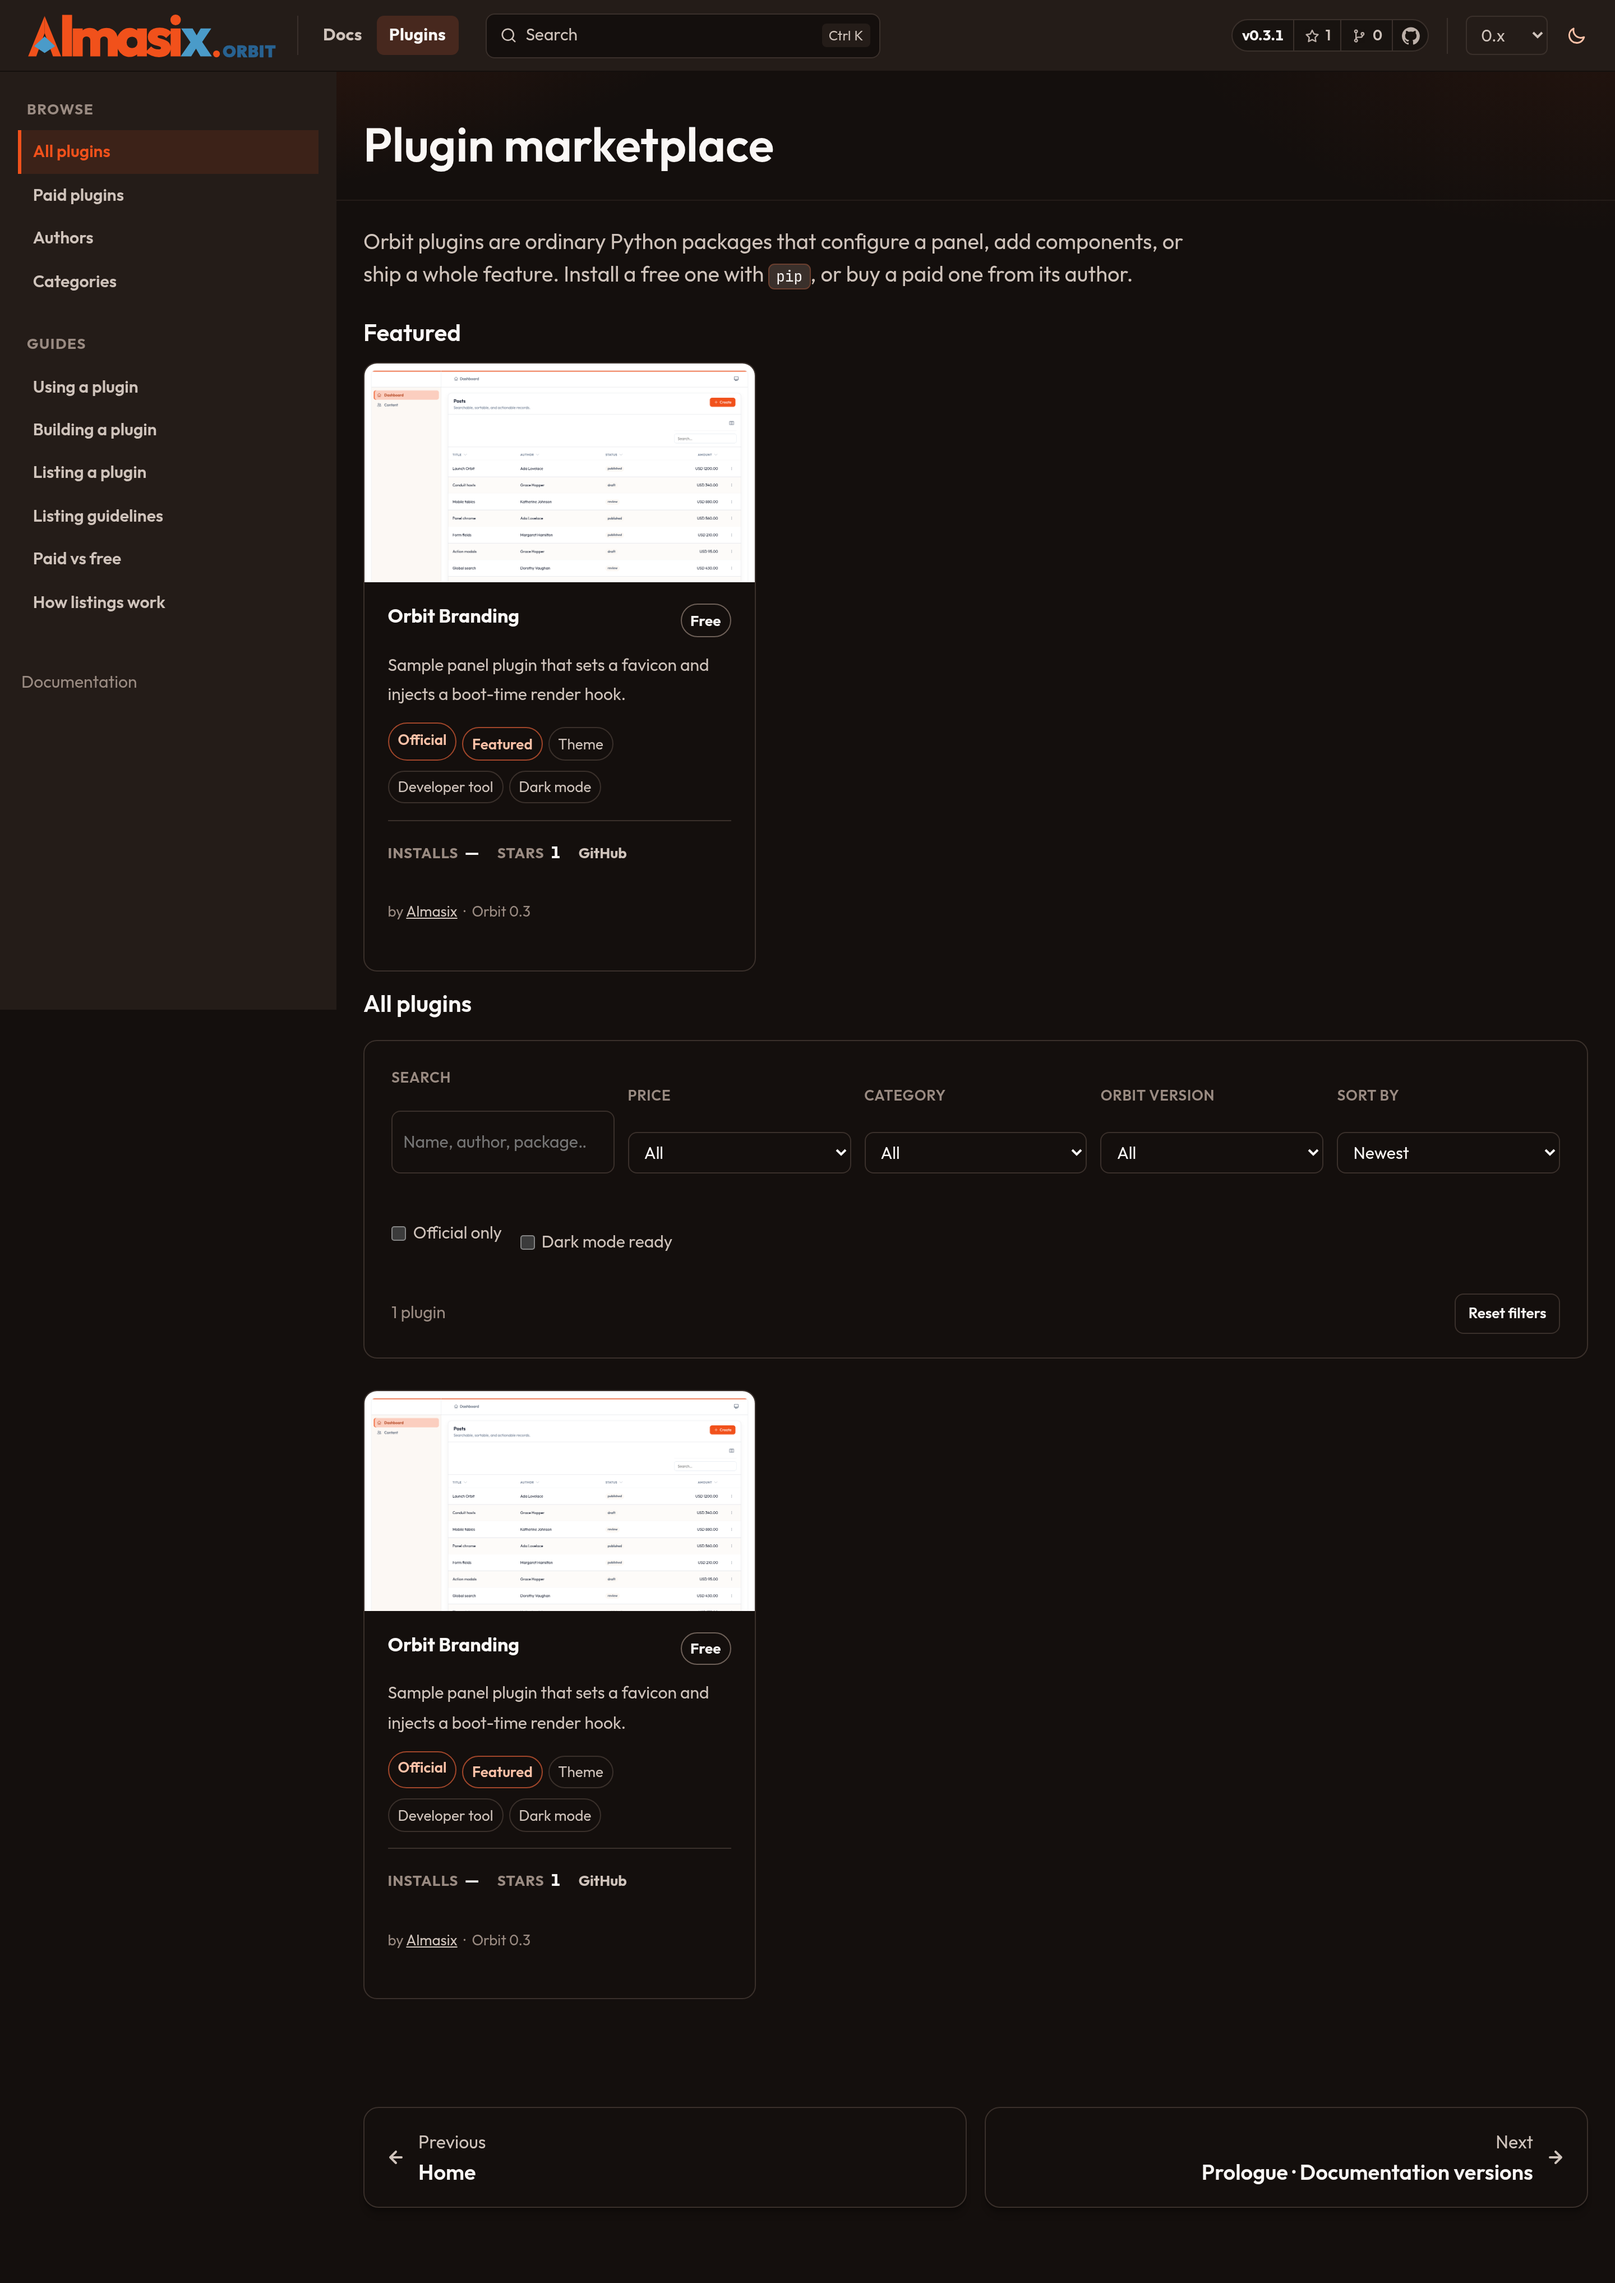
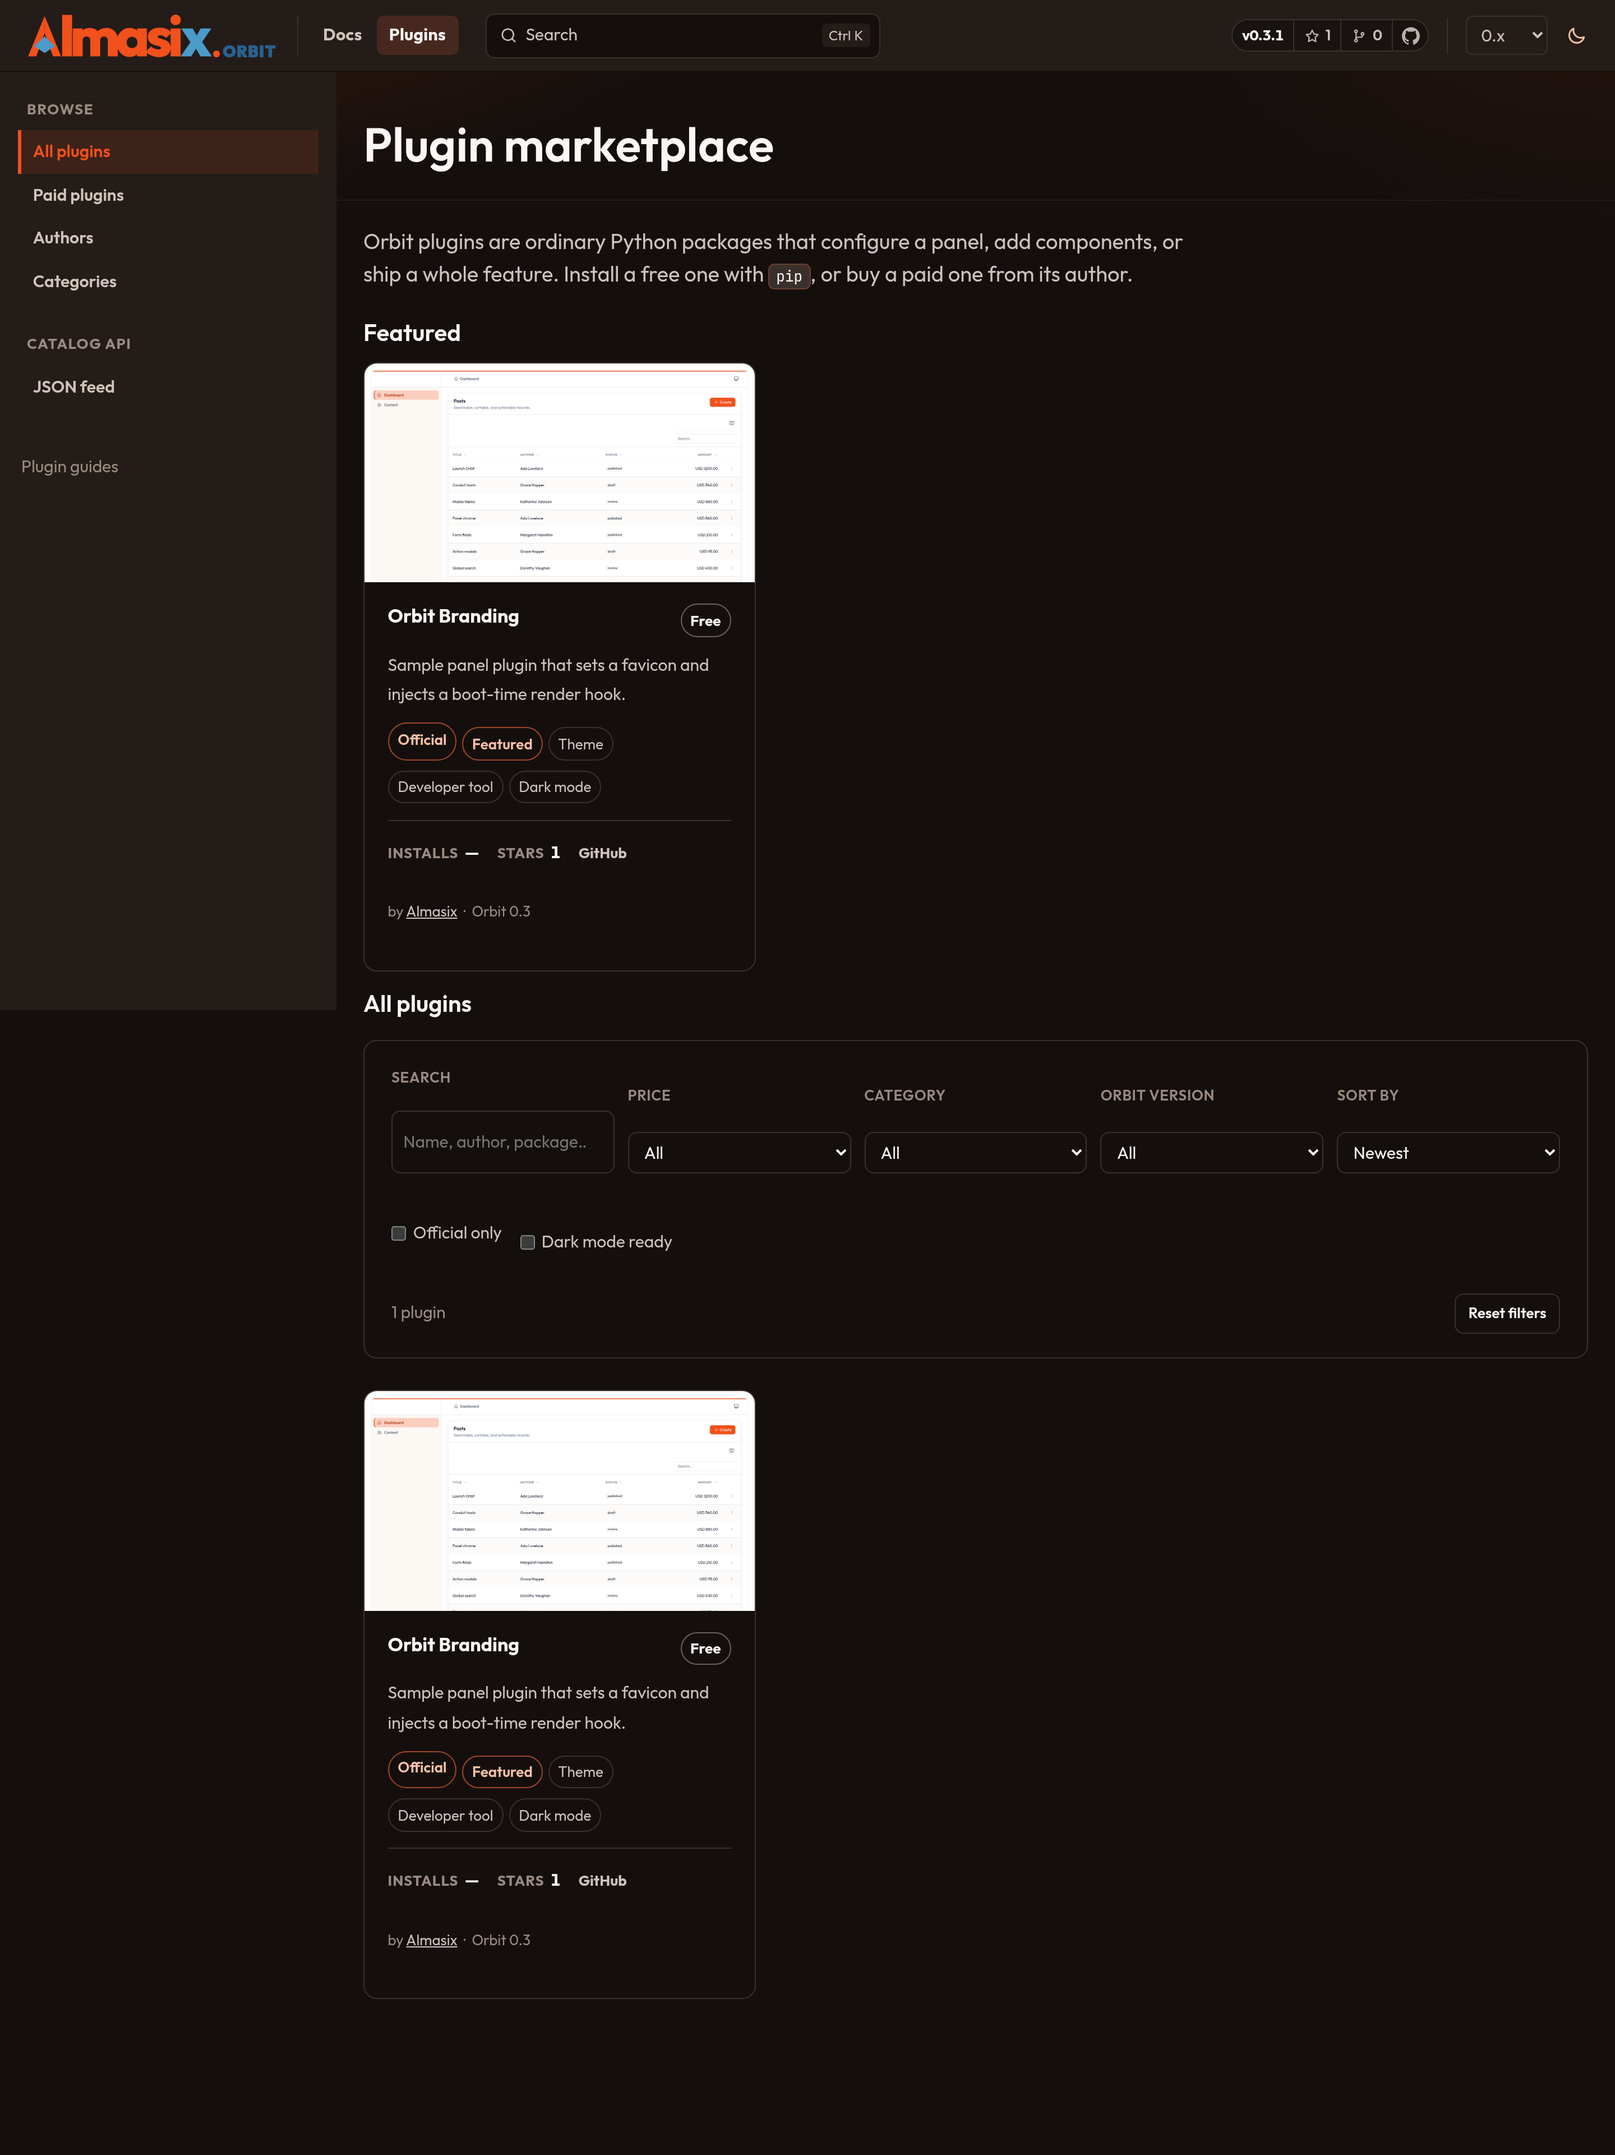
feat(docs): full-width marketplace catalog with listing-only sidebar (#80)
feat(docs): make the marketplace a full-width listing catalog

Keep overview, building, and publishing in the Docs sidebar, and give /plugins a catalog-only nav plus a JSON feed API page.

diff --git a/docs/src/styles/marketplace.css b/docs/src/styles/marketplace.css
@@ -687,3 +687,52 @@
 .content-panel:has([data-marketplace]) {
 	padding-block: 1.35rem 2.5rem;
 }
+
+.market-table-wrap {
+	overflow-x: auto;
+	margin: 0.75rem 0 1.25rem;
+	border: 1px solid var(--market-line);
+	border-radius: var(--market-radius);
+}
+
+.market-table-wrap table {
+	width: 100%;
+	margin: 0;
+	border-collapse: collapse;
+	font-size: var(--sl-text-sm);
+}
+
+.market-table-wrap th,
+.market-table-wrap td {
+	padding: 0.65rem 0.9rem;
+	text-align: start;
+	border-bottom: 1px solid var(--market-line);
+	vertical-align: top;
+}
+
+.market-table-wrap th {
+	font-size: var(--sl-text-xs);
+	letter-spacing: 0.03em;
+	text-transform: uppercase;
+	color: var(--sl-color-gray-3);
+	background: var(--sl-color-gray-7, var(--sl-color-black));
+}
+
+.market-table-wrap tr:last-child td {
+	border-bottom: 0;
+}
+
+.market-table-wrap code {
+	font-size: 0.85em;
+}
+
+.market-api-facts {
+	margin: 0.85rem 0 1rem;
+	padding-inline-start: 1.2rem;
+	color: var(--sl-color-gray-2);
+	font-size: var(--sl-text-sm);
+}
+
+.market-api-facts li + li {
+	margin-top: 0.35rem;
+}

diff --git a/docs/src/content/docs/plugins/overview.md b/docs/src/content/docs/plugins/overview.md
@@ -1,6 +1,6 @@
 ---
-title: Plugin marketplace
-description: How the Orbit plugin directory works — registry, review, feeds, and how free and paid plugins are listed.
+title: How the marketplace works
+description: Overview of the Orbit plugin directory — registry, review, feeds, and how free and paid plugins are listed.
 ---
 
 A **plugin** is a Python package that extends Orbit: a new form field, a table column, a dashboard widget, a theme, or a whole feature set such as a blog or a CRM. Because plugins are ordinary packages, anyone can publish one without asking permission.
@@ -68,10 +68,11 @@ If you find malware or a security problem an author will not fix, [open a securi
 | [`/plugins/categories/`](/plugins/categories/) | Category index |
 | [`/plugins/categories/<slug>/`](/plugins/categories/theme/) | One category |
 | [`/plugins/feed.json`](/plugins/feed.json) | JSON catalog for tooling |
+| [`/plugins/develop/`](/plugins/develop/) | Catalog API — feed shape, HTML routes, shareable filters |
 
-The JSON feed includes slug, summary, author, categories, versions, price, package, repository, license, official/featured flags, stars, and installs. It is regenerated with the docs site.
+The JSON feed includes slug, summary, author, categories, versions, price, package, repository, license, official/featured flags, stars, and installs. It is regenerated with the docs site. Field-level notes live on the [Catalog API](/plugins/develop/) page next to the live feed.
 
-Marketplace pages use a dedicated sidebar (all plugins, paid, authors, building, listing) and a wider content column than the rest of the docs. The home page and the top bar both link to `/plugins/`.
+The marketplace itself is a full-width listing UI with its own sidebar (browse, authors, categories, catalog API). These pages — overview, using, building, listing — stay in the Docs sidebar. The home page and the top bar **Plugins** menu both open [`/plugins/`](/plugins/).
 
 ## The path from idea to listing
 
@@ -92,6 +93,7 @@ flowchart LR
 ## Related
 
 - [Browse the marketplace](/plugins/) — the live directory
+- [Catalog API](/plugins/develop/) — JSON feed and listing URLs
 - [Using a plugin](/plugins/using/) — install and register
 - [Plugin development](/panels/plugins/) — write the code
 - [Render hooks](/panels/render-hooks/) — inject HTML from a plugin

diff --git a/.cursor/feature-polish.md b/.cursor/feature-polish.md
@@ -12,6 +12,7 @@ Process: see [`.cursor/rules/feature-polish.mdc`](rules/feature-polish.mdc).
 | 101 | Plugins marketplace | `docs/src/content/docs/plugins/*` | **closed** |
 | 111 | Marketplace catalog layout | `docs/src/pages/plugins/**` | **closed** |
 | 112 | Header Docs + Plugins menus | `docs/src/components/SiteTitle.astro` | **closed** |
+| 113 | Marketplace listing chrome (full width, catalog sidebar, docs guides) | `docs/src/pages/plugins/**` | **closed** |
 | 102 | Resources depth (relation managers, global search, record titles, soft deletes) | `docs/src/content/docs/resources/*` | **closed** |
 | 103 | Forms leftovers (FileUpload endpoint, RichEditor, MorphTo live search, ModalTableSelect / KeyValue hosts) | `docs/src/content/docs/forms/{file-upload,rich-editor,morph-to-select,modal-table-select,key-value}.md` | **closed** |
 | 104 | Import / export job runners | `docs/src/content/docs/actions/{import,export}.md` | **closed** |
@@ -21,6 +22,10 @@ Process: see [`.cursor/rules/feature-polish.mdc`](rules/feature-polish.mdc).
 | 108 | Panels platform (SPA mode, billing adapters, multi-panel registry) | `docs/src/content/docs/panels/configuration.md` | **closed** |
 | 109 | Docs completeness pass (thin pages, unique shots, alignment) | `docs/src/content/docs/**` | **closed** |
 | 110 | Support toolkit polish | `docs/src/content/docs/support/*` | **closed** |
+
+## Marketplace listing chrome — closed
+
+**Bar:** Catalog pages are full-width listing UI with a marketplace-only sidebar (browse, authors, categories, JSON catalog API). Plugin overview, building, and publishing stay in the Docs sidebar.
 
 ## Header Docs + Plugins menus — closed
 

diff --git a/docs/src/content/docs/features.md b/docs/src/content/docs/features.md
@@ -103,9 +103,9 @@ See [Navigation overview](/navigation/overview/).
 
 - `Plugin` base with `register` / `boot` hooks and `panel.plugin(...)` / `.plugins([...])`
 - Publishable package layout, optional `ServiceProvider` entry-point auto-boot
-- Community [plugin marketplace](/plugins/) — wide catalog layout, dedicated sidebar, JSON feed, authors, and categories
+- Community [plugin marketplace](/plugins/) — full-width listing UI, catalog-only sidebar, JSON feed, authors, and categories
 - Registry-backed listings with install/star stats, GitHub/PyPI links, author aside, and related plugins
-- Submission path via pull request: [Get listed](/plugins/get-listed/), [Using a plugin](/plugins/using/)
+- [Catalog API](/plugins/develop/) for tooling; guides for [building](/panels/plugins/) and [listing](/plugins/get-listed/) stay in Docs
 
 ## Query builder & support
 

diff --git a/docs/parity.md b/docs/parity.md
@@ -33,7 +33,7 @@ this framing into learner-facing pages.
 
 ## Marketplace — Done
 
-Docs-hosted YAML registry (`docs/src/data/marketplace/`), `/plugins` catalog (wide layout, dedicated sidebar, install/star stats, author aside, GitHub star button), JSON feed, validator tests, official `orbit-branding` listing, PR template + review pack. Orbit takes no payment.
+Docs-hosted YAML registry (`docs/src/data/marketplace/`), `/plugins` catalog (full-width listing UI, catalog-only sidebar, install/star stats, author aside, GitHub star button), JSON feed + `/plugins/develop` catalog API, validator tests, official `orbit-branding` listing, PR template + review pack. Plugin overview/build/publish stay in Docs. Orbit takes no payment.
 
 ## Support — Done
 

diff --git a/docs/src/content/docs/panels/plugins.md b/docs/src/content/docs/panels/plugins.md
@@ -186,7 +186,7 @@ Use those helpers from resources or from non-panel Conduit hosts. Render hooks a
 ## Related
 
 - [Plugin marketplace](/plugins/) — browse listings
-- [How listings work](/plugins/overview/)
+- [How the marketplace works](/plugins/overview/)
 - [Using a plugin](/plugins/using/)
 - [Get listed](/plugins/get-listed/)
 - [Listing guidelines](/plugins/guidelines/)

diff --git a/docs/src/content/docs/plugins/using.md b/docs/src/content/docs/plugins/using.md
@@ -68,6 +68,6 @@ panel.plugins([AuditLogPlugin(), BrandingPlugin()])
 ## Related
 
 - [Browse the marketplace](/plugins/)
-- [How listings work](/plugins/overview/)
+- [How the marketplace works](/plugins/overview/)
 - [Plugin development](/panels/plugins/)
 - [Get listed](/plugins/get-listed/) — if you are publishing rather than installing
